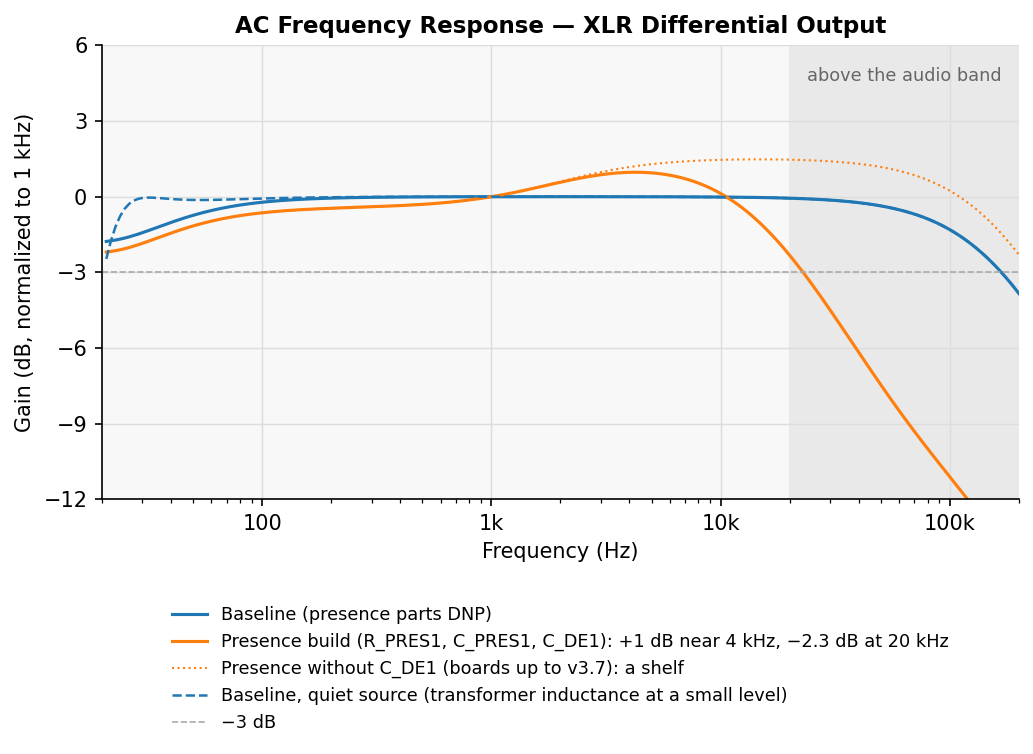
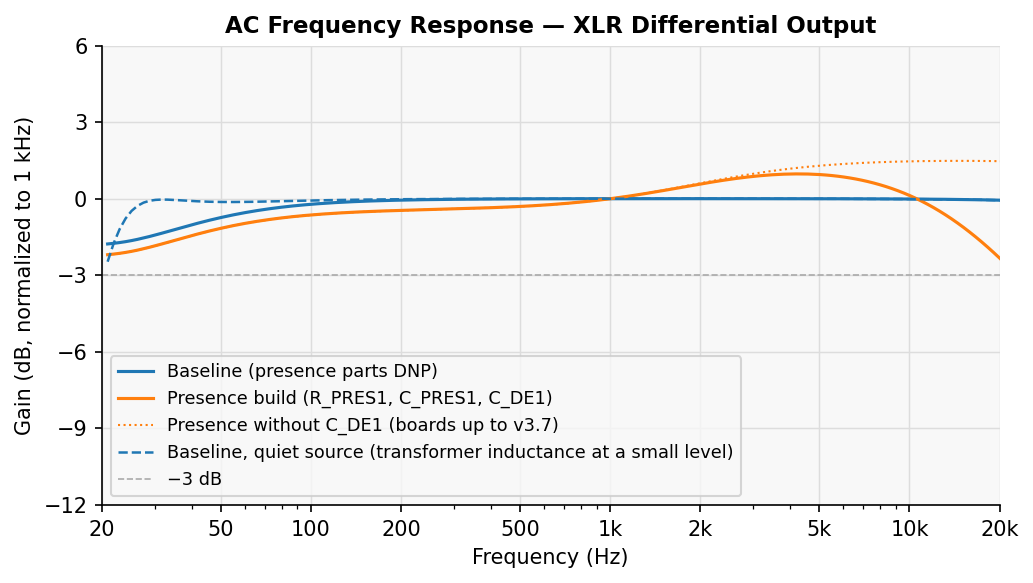
Frequency response plot: the audio band only, 20 Hz to 20 kHz
Claude-Session: https://claude.ai/code/session_01JJVE6iPs7mqtayJNH2CABt

diff --git a/sim/plot_all.py b/sim/plot_all.py
@@ -251,28 +251,27 @@ def plot_freq_response():
 
     mask = (freq_base >= 20) & (freq_base <= 200000)
 
-    fig, ax = plt.subplots(figsize=(7, 5.4))
+    fig, ax = plt.subplots(figsize=(7, 4))
     mask_peak = (freq_peak >= 20) & (freq_peak <= 200000)
     ax.semilogx(freq_base[mask], db_base[mask], color=C1, lw=1.5,
                 label="Baseline (presence parts DNP)")
     ax.semilogx(freq_peak[mask_peak], db_peak[mask_peak], color=C2, lw=1.5,
-                label="Presence build (R_PRES1, C_PRES1, C_DE1): +1 dB near 4 kHz, −2.3 dB at 20 kHz")
+                label="Presence build (R_PRES1, C_PRES1, C_DE1)")
     mask_shelf = (freq_shelf >= 20) & (freq_shelf <= 200000)
     ax.semilogx(freq_shelf[mask_shelf], db_shelf[mask_shelf], color=C2, lw=1.0, ls=":",
-                label="Presence without C_DE1 (boards up to v3.7): a shelf")
+                label="Presence without C_DE1 (boards up to v3.7)")
     mask_quiet = (freq_quiet >= 20) & (freq_quiet <= 200000)
     ax.semilogx(freq_quiet[mask_quiet], db_quiet[mask_quiet], color=C1, lw=1.2, ls="--",
                 label="Baseline, quiet source (transformer inductance at a small level)")
     ax.axhline(-3, color="#aaaaaa", lw=0.8, ls="--", label="−3 dB")
-    # above 20 kHz is out of band: shaded, so that the presence build's roll-off up there (one capacitor across
-    # the feedback resistor, 6 dB per octave) does not read as a loss of treble
-    ax.axvspan(20000, 200000, color="#e9e9e9", zorder=0)
-    ax.text(63000, 4.6, "above the audio band", ha="center", fontsize=8.5, color="#666666")
     ax.set_xlabel("Frequency (Hz)")
     ax.set_ylabel("Gain (dB, normalized to 1 kHz)")
     ax.set_title("AC Frequency Response — XLR Differential Output", fontweight="bold")
-    ax.legend(fontsize=8.5, loc="upper center", bbox_to_anchor=(0.5, -0.2), frameon=False)   # below: no curve hidden
-    ax.set_xlim(20, 200000)
+    ax.legend(fontsize=8.5, loc="lower left")
+    # the audio band, as response plots are usually drawn. Up to 200 kHz the presence build's roll-off above the
+    # band (C_DE1, first order: -12 dB at 100 kHz) took up the plot and read as a loss of treble.
+    ax.set_xlim(20, 20000)
+    ax.set_xticks([20, 50, 100, 200, 500, 1000, 2000, 5000, 10000, 20000])
     # a fixed scale: left to fit the data, the axis spanned 6 dB and made the 1.5 dB presence peak look large
     ax.set_ylim(-12, 6)
     ax.yaxis.set_major_locator(ticker.MultipleLocator(3))

diff --git a/README.md b/README.md
@@ -94,7 +94,7 @@ Simulated response of the circuit alone, relative to 1 kHz:
 
 A larger C_DE1 cuts more and starts lower: 330 pF at hi-gain gives −1.1 dB at 10 kHz and −3.6 dB at 16 kHz, and takes the rise at 6.3 kHz down to +0.4 dB. Leave C_DE1 out for the plain shelf. Use C0G for it: the part is in the signal path.
 
-In the plot the presence curve keeps falling above 20 kHz, to −12 dB at 100 kHz. That part is outside the audio band (shaded): a capacitor across the feedback resistor is a first-order low-pass, the usual way to limit an amplifier's bandwidth, and it falls at 6 dB per octave for as far as the plot goes. Inside the band the whole change is from +1 dB near 4 kHz to −2.3 dB at 20 kHz. The curve is the electronics alone; what comes out of the microphone is this plus the capsule's own response.
+The plot covers the audio band. Above it the baseline is flat for a long way (−3 dB at 174 kHz), while the presence build keeps falling at 6 dB per octave, to −12 dB at 100 kHz: a capacitor across the feedback resistor is a first-order low-pass, the usual way to limit an amplifier's bandwidth. The curves are the electronics alone; what comes out of the microphone is this plus the capsule's own response.
 
 `gen_bom.py` generates four BOM/CPL pairs in one run. The default build (`bom.csv` / `cpl.csv`, R6=5.6 kΩ, R_PRES1/C_PRES1/C_DE1 DNP) is packaged in the `fabrication-outputs` CI artifact. The three variant pairs (`-hi-gain`, `-presence`, `-hi-gain-presence`) are packaged in the `bom-variants` artifact.
 
